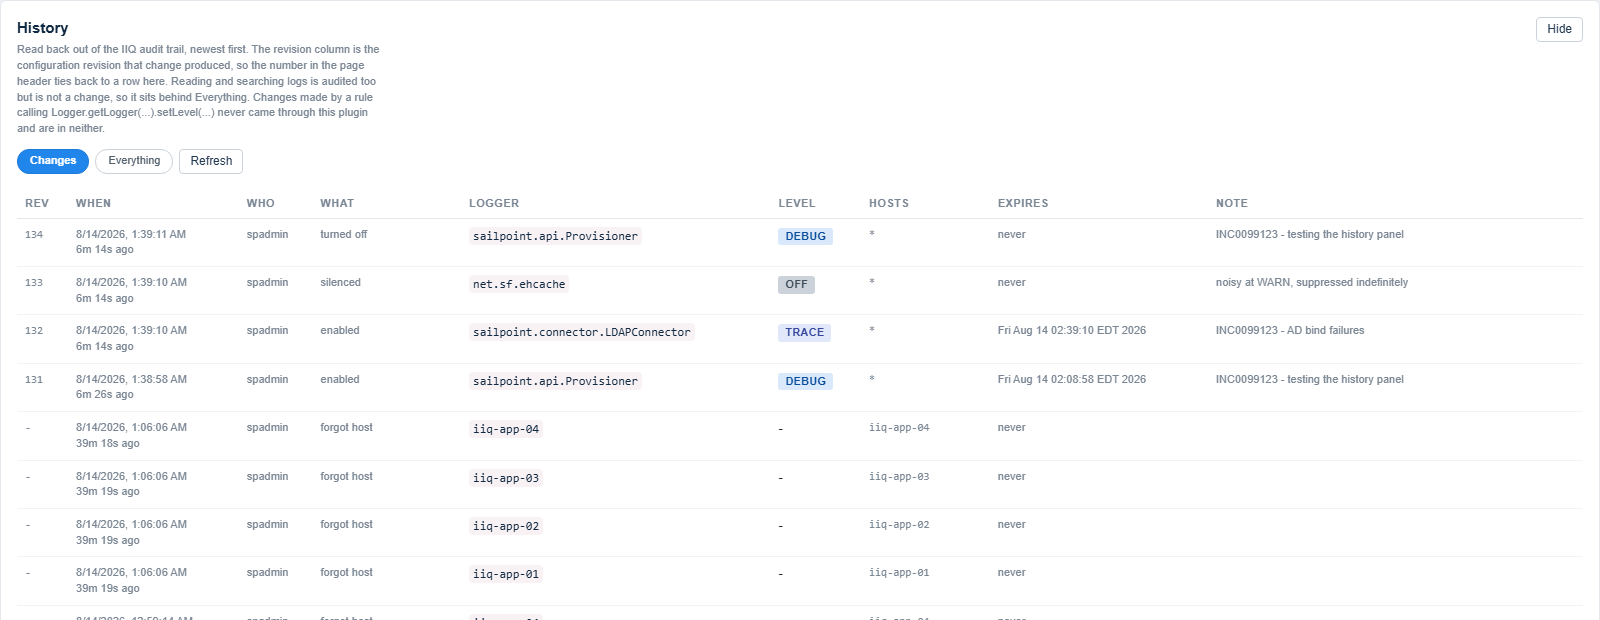
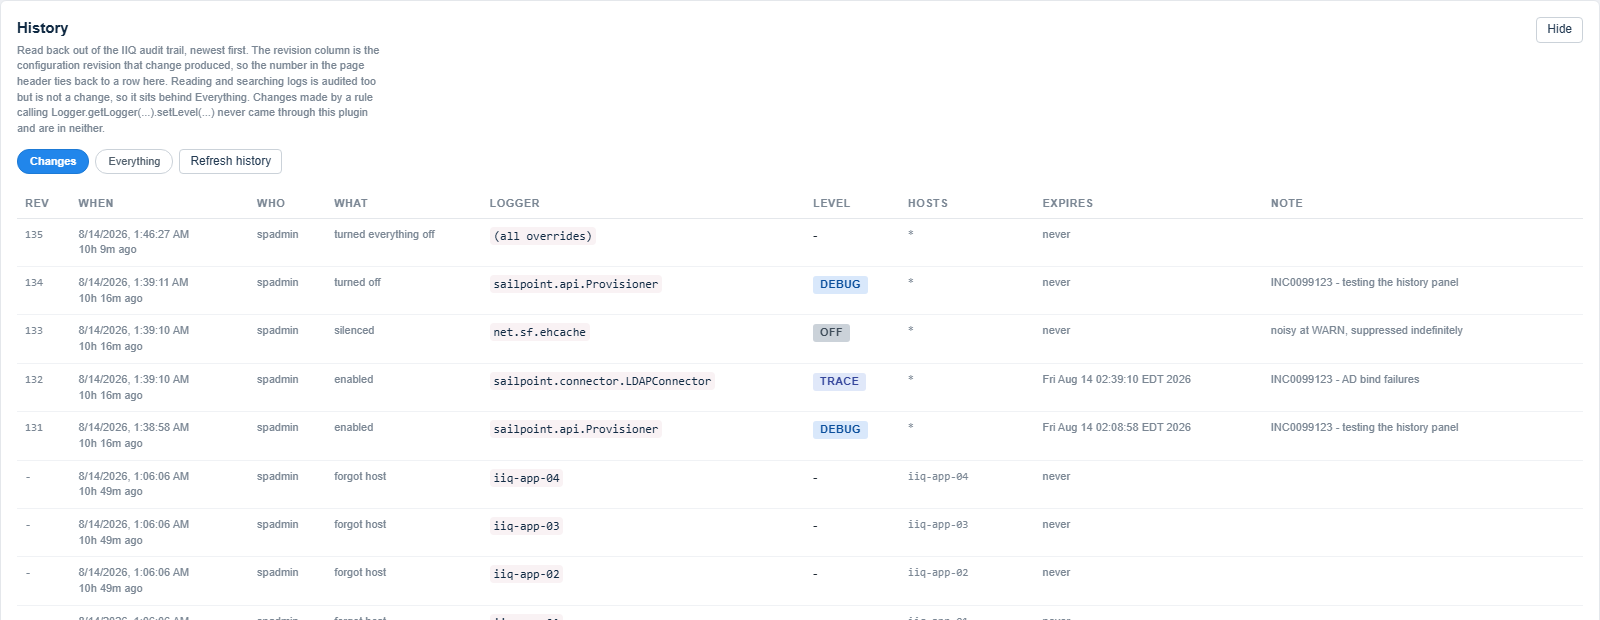
Keep the reader in place, and add All / None to the chip strips
Pressing Refresh in History threw you to the top of the page. The cause
was the refresh itself: it blanked the rows before fetching, the panel
shrank from fifty rows to a single line, the document lost several
thousand pixels of height, and the browser clamped the scroll position to
the new maximum. Nothing restored it afterwards.

Fixed at both levels. The refresh no longer discards what it already has -
the existing rows stay on screen, greyed, with a spinner in the button,
until the new ones arrive - so the page never collapses. And render()
notes the scroll position before tearing the tree down and puts it back
afterwards, so any other action that changes the page height leaves you
where you were rather than at the top. Measured across five paths: history
refresh, history filter, source filter, a host chip and All/None, all
holding position.

The button said "Refresh", which reads as "refresh the page". It says
"Refresh history", and its tooltip says it does not reload the page.

Every button now carries type="button". Nothing on this page sits inside a
form except the add-logger form, whose submit button is deliberate and
whose onsubmit is prevented - but a <button> with no type is a submit
button, and if IIQ ever wrapped the plugin include in a form every one of
them would post the page.

All / None on each of the three chip strips. Only drawn when there is more
than one host, since on a single-host install they are two buttons that
[…]

diff --git a/ui/js/turnOnLoggers.js b/ui/js/turnOnLoggers.js
@@ -28,6 +28,10 @@
 
     function el(tag, cls, text) {
         var n = document.createElement(tag);
+        // A <button> with no type is a submit button. Nothing on this page sits
+        // inside a form today, so it is harmless today - but if IIQ ever wraps
+        // the plugin include in one, every button here would post the page.
+        if (tag === 'button') n.type = 'button';
         if (cls) n.className = cls;
         if (text !== undefined && text !== null) n.appendChild(document.createTextNode(String(text)));
         return n;
@@ -181,6 +185,15 @@
 
     function render() {
         if (!root || !state) return;
+
+        // Rebuilding the whole tree empties the page for an instant. If the
+        // reader was scrolled further down than the momentarily-shorter
+        // document allows, the browser clamps the scroll position - and pressing
+        // a button that changes one row throws you back to the top. Note the
+        // position before tearing it down and put it back afterwards.
+        var scroller = document.scrollingElement || document.documentElement;
+        var wasAt = (scroller && scroller.scrollTop) || window.scrollY || 0;
+
         clear(root);
 
         root.appendChild(header());
@@ -217,6 +230,13 @@
             root.appendChild(pair[0]);
         });
         root.appendChild(footer());
+
+        if (wasAt > 0) {
+            // Clamped by the browser if the new page really is shorter, which is
+            // the right answer in that case.
+            if (scroller) scroller.scrollTop = wasAt;
+            if (window.scrollY !== wasAt && window.scrollTo) window.scrollTo(0, wasAt);
+        }
     }
 
     function header() {
@@ -676,8 +696,34 @@
         return chip;
     }
 
+    /**
+     * All / None, for when clicking twelve chips individually is the wrong
+     * way to say "just this one" or "put them all back".
+     *
+     * Only drawn when there is more than one host - on a single-host install
+     * they would be two buttons that cannot change anything.
+     */
+    function bulkPick(hosts, setAll, isPicked) {
+        var wrap = el('span', 'tol-hostbulk');
+        var allOn = hosts.every(isPicked);
+        var allOff = !hosts.some(isPicked);
+
+        var all = el('button', 'tol-bulk', 'All');
+        all.title = 'Pick every host';
+        all.disabled = allOn;
+        all.onclick = function () { setAll(true); render(); };
+        wrap.appendChild(all);
+
+        var none = el('button', 'tol-bulk', 'None');
+        none.title = 'Pick no host';
+        none.disabled = allOff;
+        none.onclick = function () { setAll(false); render(); };
+        wrap.appendChild(none);
+        return wrap;
+    }
+
     /** A row of chips, for the sections that pick hosts rather than answer queries. */
-    function hostPicker(hosts, isPicked, toggle, mode) {
+    function hostPicker(hosts, isPicked, toggle, mode, setAll) {
         var strip = el('div', 'tol-hoststrip');
         hosts.forEach(function (h) {
             strip.appendChild(hostChip(h, {
@@ -688,6 +734,7 @@
                 })(h.name)
             }));
         });
+        if (setAll && hosts.length > 1) strip.appendChild(bulkPick(hosts, setAll, isPicked));
         return strip;
     }
 
@@ -703,7 +750,7 @@
     }
     var liveFilter = 'all';
     // null until the first render, which seeds it with the host serving the page.
-    var livePick = null;
+    var livePick = null;   // reassigned wholesale by All/None
     // Hosts clicked out of Host Status. Everything starts in it.
     var hostHide = {};
 
@@ -858,7 +905,11 @@
             function (n) {
                 if (livePick[n]) delete livePick[n]; else livePick[n] = true;
             },
-            'strike'));
+            'strike',
+            function (on) {
+                livePick = {};
+                if (on) all.forEach(function (h) { livePick[h.name] = true; });
+            }));
 
         var picked = all.filter(function (h) { return livePick[h.name]; });
         if (!picked.length) {
@@ -1142,7 +1193,11 @@
             function (n) {
                 if (hostHide[n]) delete hostHide[n]; else hostHide[n] = true;
             },
-            'strike'));
+            'strike',
+            function (on) {
+                hostHide = {};
+                if (!on) all.forEach(function (h) { hostHide[h.name] = true; });
+            }));
 
         var hosts = all.filter(function (h) { return !hostHide[h.name]; });
         if (!hosts.length) {
@@ -1496,6 +1551,14 @@
                 })(h.name)
             }));
         });
+        if (hosts.length > 1) {
+            strip.appendChild(bulkPick(hosts,
+                function (on) {
+                    logState.off = {};
+                    if (!on) hosts.forEach(function (h) { logState.off[h.name] = true; });
+                },
+                function (h) { return !logState.off[h.name]; }));
+        }
         box.appendChild(strip);
 
         if (!state.logActive) {
@@ -1566,6 +1629,11 @@
     var historyState = { open: false, rows: null, loading: false, error: null, kind: 'change' };
 
     function loadHistory() {
+        // Deliberately does not clear the rows it already has. Blanking them
+        // shrinks this panel from fifty rows to one line, the document loses
+        // several thousand pixels of height, and the browser clamps the scroll
+        // position - which is what "pressing Refresh jumps me to the top" was.
+        // The old rows stay on screen, greyed, until the new ones arrive.
         historyState.loading = true;
         historyState.error = null;
         render();
@@ -1596,18 +1664,23 @@
             b.title = o[0] === 'change'
                 ? 'Overrides added, removed and expired; collections; hosts forgotten'
                 : 'Changes plus log reads, searches and forced syncs';
+            b.disabled = !!historyState.loading;
             b.onclick = (function (k) {
                 return function () {
                     if (historyState.kind === k) return;
                     historyState.kind = k;
-                    historyState.rows = null;
                     loadHistory();
                 };
             })(o[0]);
             bar.appendChild(b);
         });
-        var refresh = el('button', 'tol-btn tol-btn-small', 'Refresh');
-        refresh.onclick = function () { historyState.rows = null; loadHistory(); };
+        var refresh = el('button', 'tol-btn tol-btn-small');
+        if (historyState.loading) refresh.appendChild(el('span', 'tol-spin'));
+        refresh.appendChild(document.createTextNode(
+            historyState.loading ? 'Refreshing' : 'Refresh history'));
+        refresh.disabled = !!historyState.loading;
+        refresh.title = 'Re-read the audit trail. This does not reload the page.';
+        refresh.onclick = function () { loadHistory(); };
         bar.appendChild(refresh);
         return bar;
     }
@@ -1654,7 +1727,7 @@
             box.appendChild(el('div', 'tol-banner tol-error', historyState.error));
             return box;
         }
-        if (historyState.loading || historyState.rows === null) {
+        if (historyState.rows === null) {
             box.appendChild(el('div', 'tol-empty', 'Reading the audit trail...'));
             return box;
         }
@@ -1666,7 +1739,7 @@
             return box;
         }
 
-        var wrap = el('div', 'tol-tablewrap');
+        var wrap = el('div', 'tol-tablewrap' + (historyState.loading ? ' tol-stale' : ''));
         var t = el('table', 'tol-table');
         t.appendChild(headRow(['Rev', 'When', 'Who', 'What', 'Logger', 'Level', 'Hosts',
             'Expires', 'Note']));

diff --git a/ui/css/turnOnLoggers.css b/ui/css/turnOnLoggers.css
@@ -844,6 +844,51 @@
 .tol-lhost-off:hover { opacity: .7; }
 
 
+/* All / None, at the end of a chip strip. Deliberately quieter than the chips:
+   they are a shortcut, not the primary way to choose a host. */
+.tol-hostbulk {
+    display: inline-flex;
+    gap: 4px;
+    margin-left: 6px;
+    padding-left: 8px;
+    border-left: 1px solid #e4e7eb;
+}
+
+.tol-bulk {
+    border: 1px solid #cbd2d9;
+    background: #fff;
+    color: #52606d;
+    border-radius: 3px;
+    padding: 3px 9px;
+    font: 600 11px "Segoe UI", Arial, sans-serif;
+    cursor: pointer;
+}
+
+.tol-bulk:hover:not(:disabled) { background: #f5f7fa; }
+.tol-bulk:disabled { opacity: .4; cursor: default; }
+
+/* Content being replaced, still readable while the new version is fetched.
+   Blanking it instead would collapse the panel and throw the reader's scroll
+   position away. */
+.tol-stale { opacity: .5; transition: opacity .15s; }
+
+/* A spinner for a button, in the button's own colour rather than amber. */
+.tol-spin {
+    display: inline-block;
+    width: 9px;
+    height: 9px;
+    margin-right: 5px;
+    vertical-align: -1px;
+    border: 2px solid rgba(82, 96, 109, .25);
+    border-top-color: #52606d;
+    border-radius: 50%;
+    animation: tol-spin .7s linear infinite;
+}
+
+@media (prefers-reduced-motion: reduce) {
+    .tol-spin { animation: none; }
+}
+
 /* --- the waiting spinner --- */
 .tol-lhost-spin {
     display: inline-block;

diff --git a/ui/help.html b/ui/help.html
@@ -202,7 +202,7 @@ through, the same in every section. What differs is only where each section star
     <tr><td>Log Viewer</td><td>every host</td></tr>
   </tbody>
 </table>
-<p>Click any chip to toggle it. You can pick as many as you like. <em>Loggers live in the
+<p>Click any chip to toggle it. You can pick as many as you like, and <strong>All</strong> / <strong>None</strong> at the end of the strip save clicking twelve of them individually. They only appear when there is more than one host. <em>Loggers live in the
 JVM</em> starts on one host because a cluster mostly reports the same picture everywhere, so
 reading it starts with one host and widens when you are comparing.</p>
 <p>Picking several hosts there draws <strong>one table</strong> with a banner between each

diff --git a/README.md b/README.md
@@ -107,7 +107,9 @@ in every section. What differs is only where each section starts:
 | Host Status | every host |
 | Log Viewer | every host |
 
-Click any chip to toggle it; pick as many as you like. *All Logger Status*
+Click any chip to toggle it; pick as many as you like. **All** / **None** at the
+end of the strip save clicking through twelve of them, and appear only when there
+is more than one host. *All Logger Status*
 starts on one host because a cluster mostly reports the same picture everywhere, so
 reading it starts with one host and widens when you are comparing.
 
